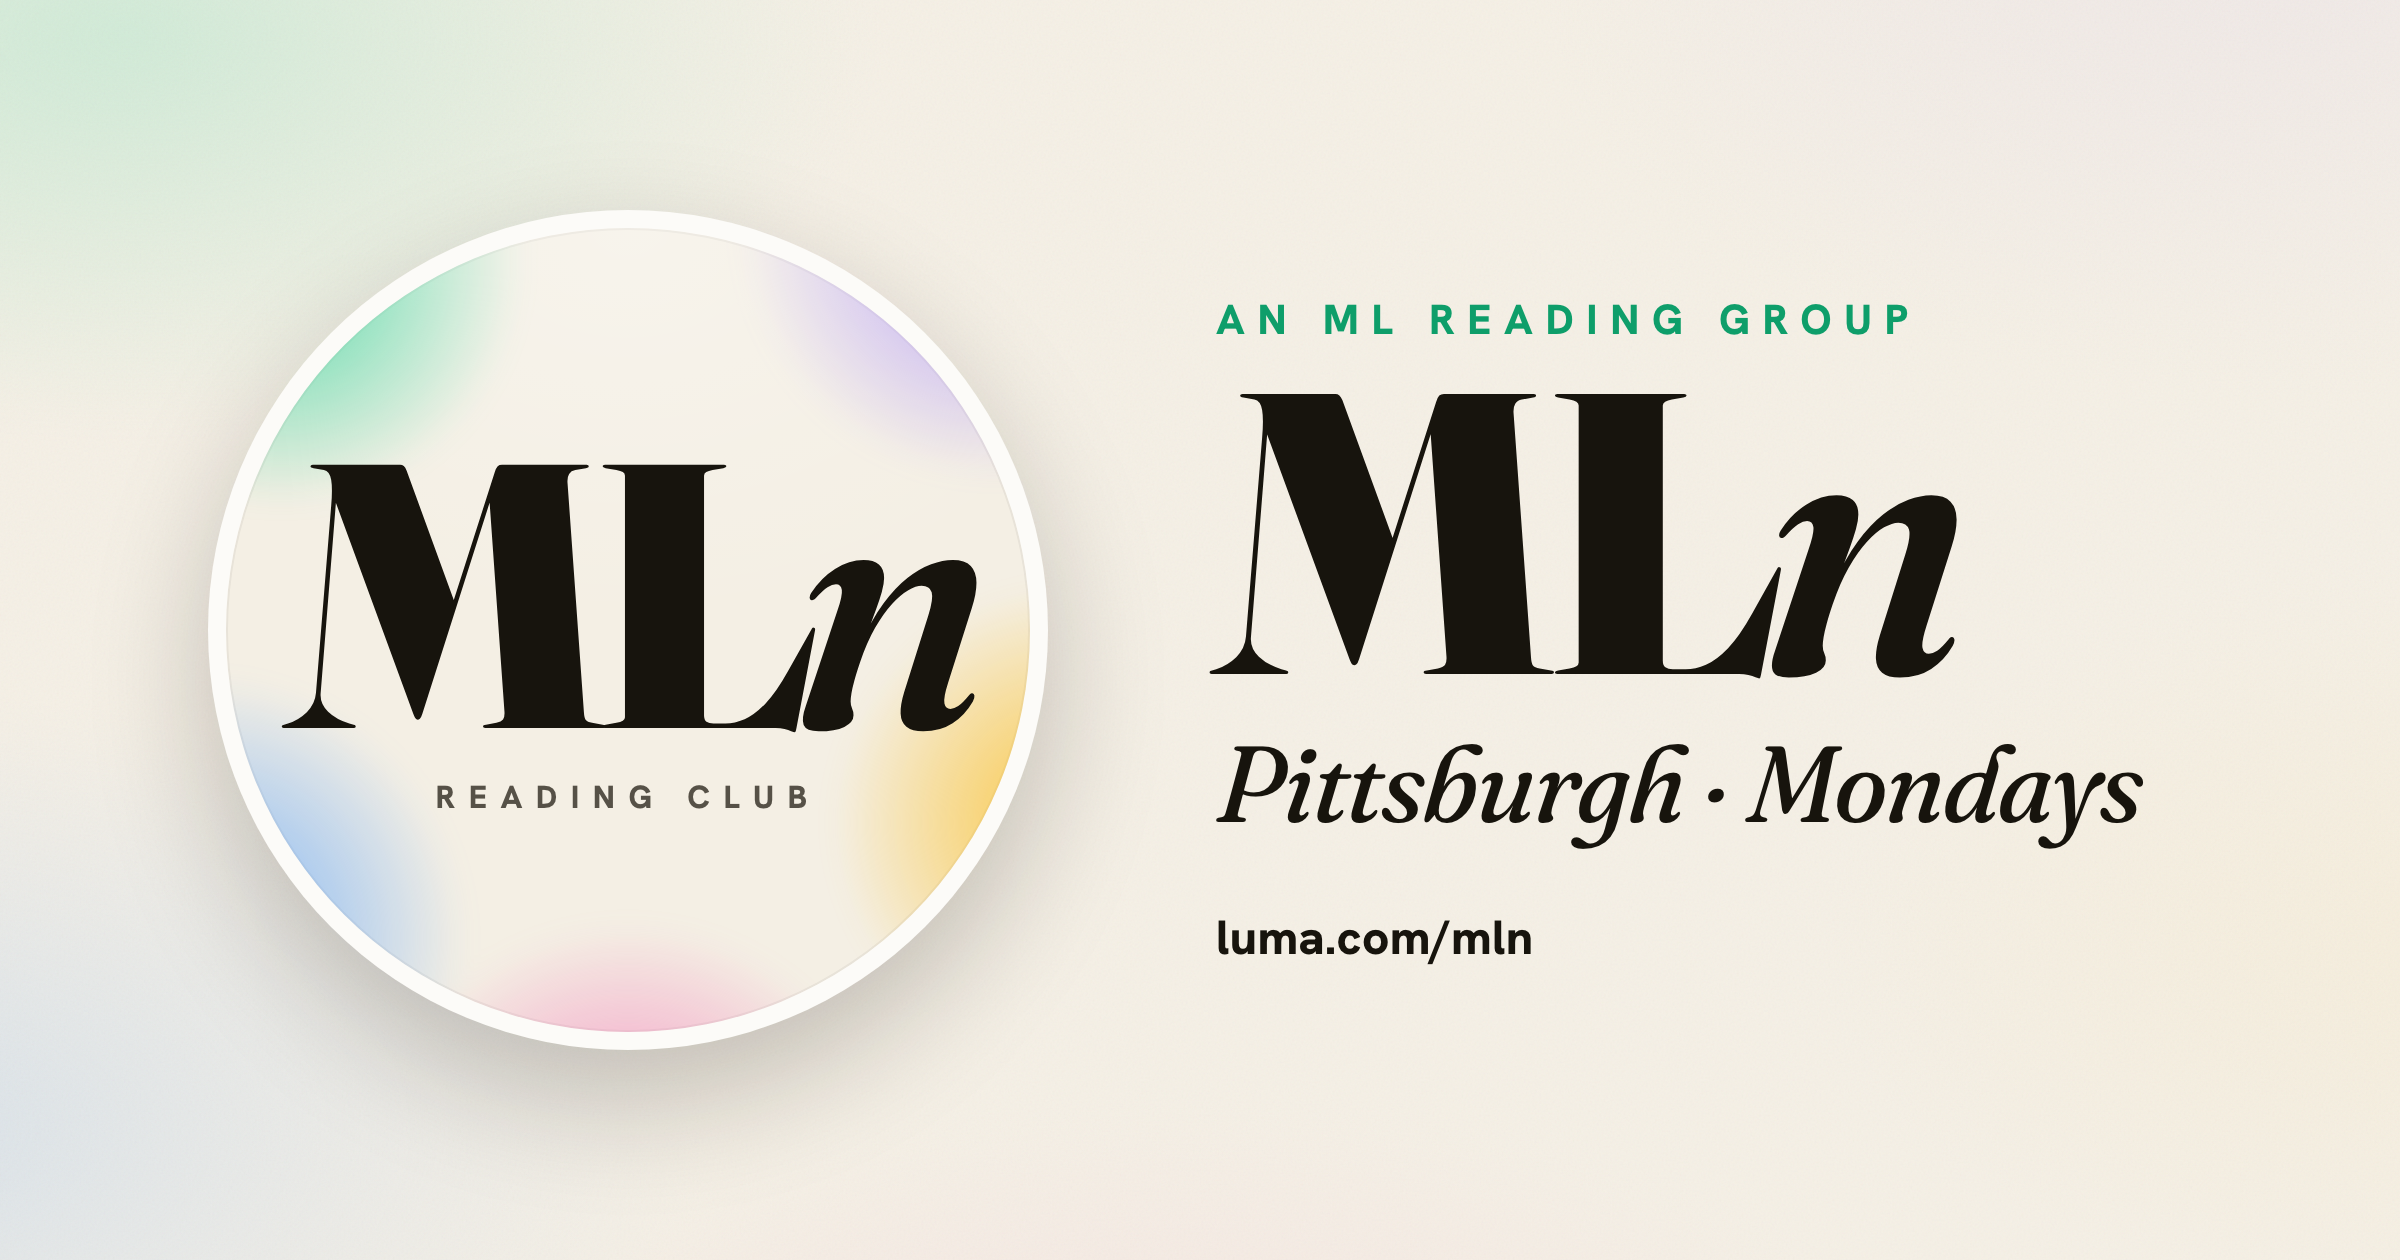
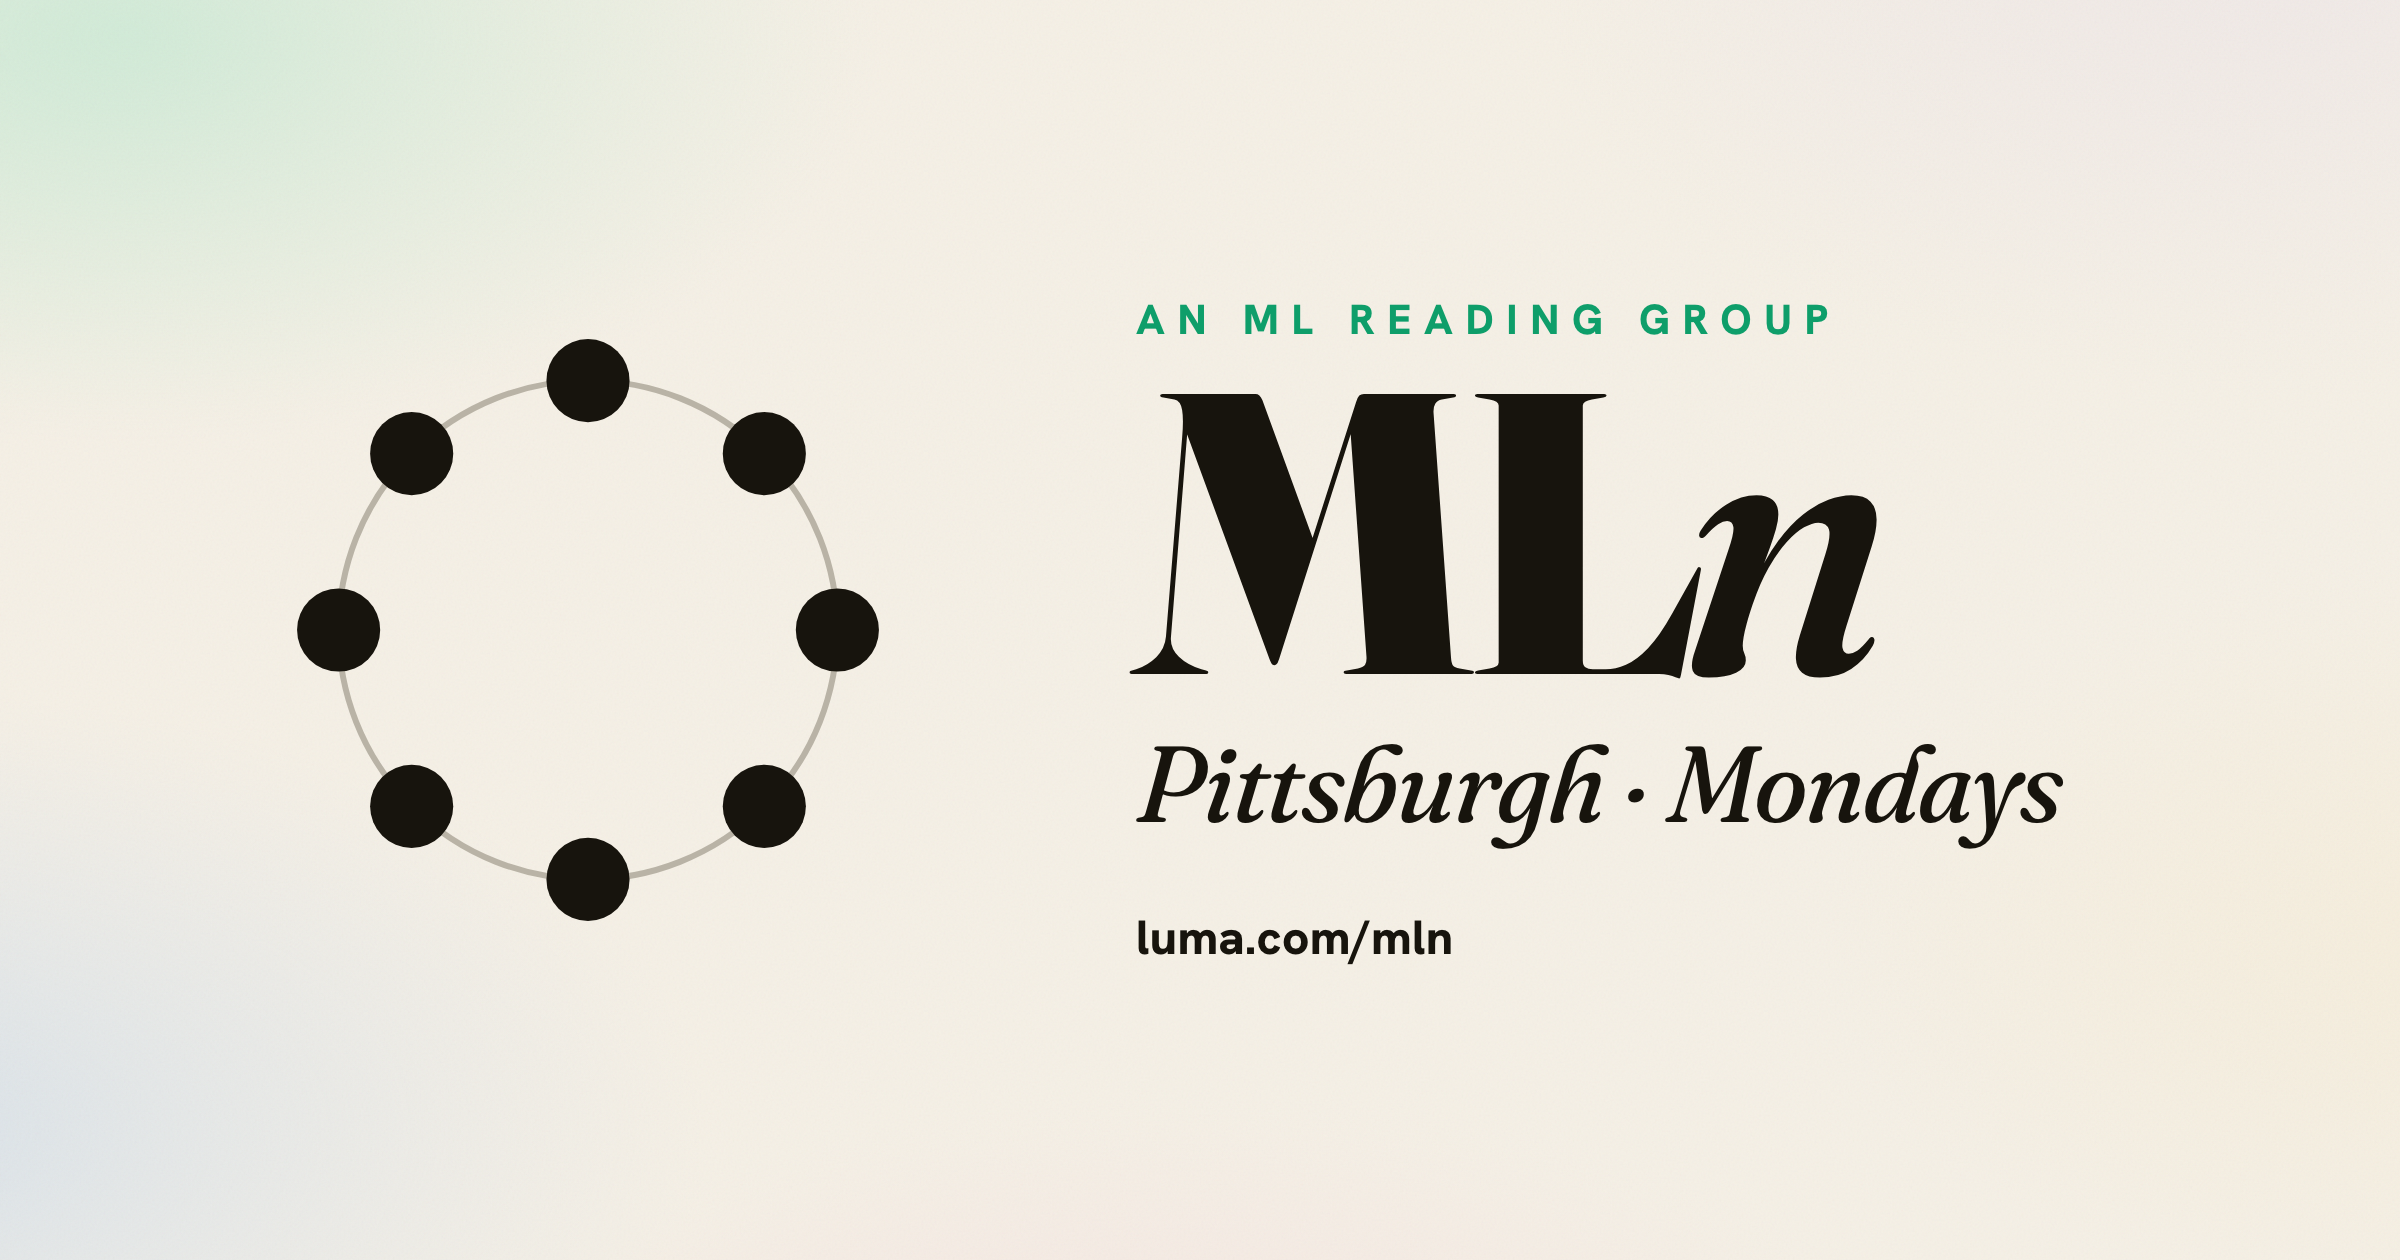
MLn: ring-of-dots social card, 'n other topics title, What's this? dropdown, BYOP copy

diff --git a/_pages/mln.html b/_pages/mln.html
@@ -9,7 +9,7 @@ nav: false
 ---
 
 <section class="mln-hero">
-  <h1 class="mln-hero-title">A weekly ML paper reading group.</h1>
+  <h1 class="mln-hero-title">A weekly ML ’n other topics reading group.</h1>
   <p class="mln-hero-lead">
     We meet weekly on Mondays in person to talk about new ML papers! As always,
     optional quiet reading from 7 pm, discussion starts 8 pm. Come and join the
@@ -82,9 +82,11 @@ nav: false
       make interest- and values-aligned friends IRL. This is made worse by an
       endless stream of catered consumption.
     </span>
-    <span class="mln-byop-p">
-      Bring something that excites you: a paper of your own, someone else's work,
-      a blog post, essay, artwork, film, or other piece of media.
+    <span class="mln-byop-p mln-byop-lead">
+      It doesn't have to be directly ML related — bring something that excites
+      you: a paper of your own, someone else's work, art, computer engineering,
+      bio, neuro, history, poems, books, podcasts, a song, or a theorem and
+      everything else is also fair game!
     </span>
     <span class="mln-byop-cta">Sign up <span class="mln-arrow">→</span></span>
   </a>